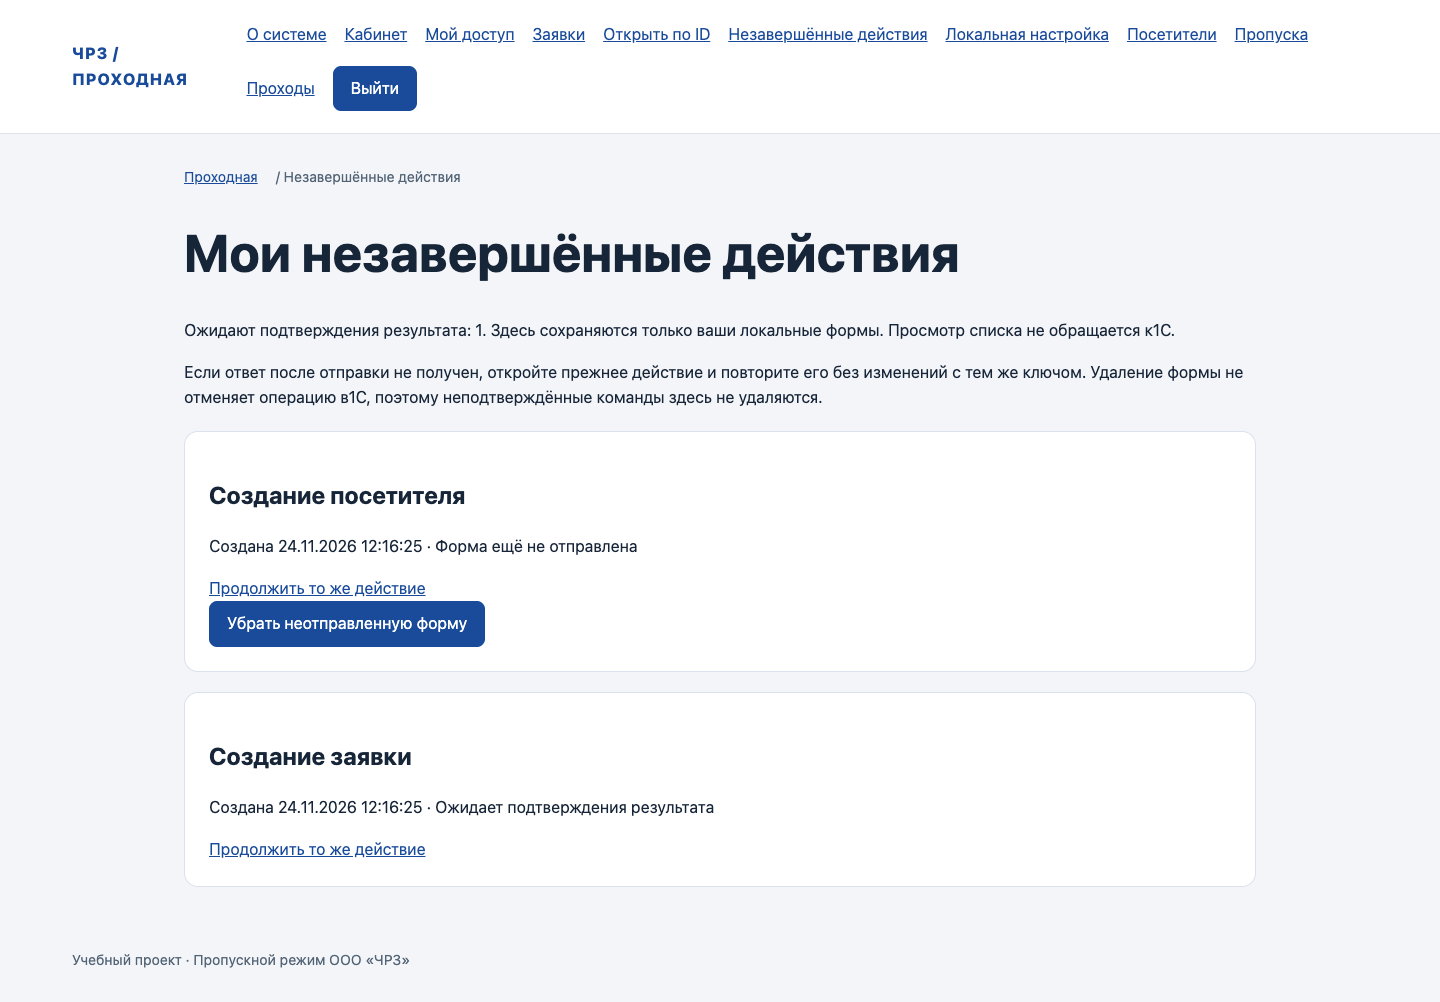
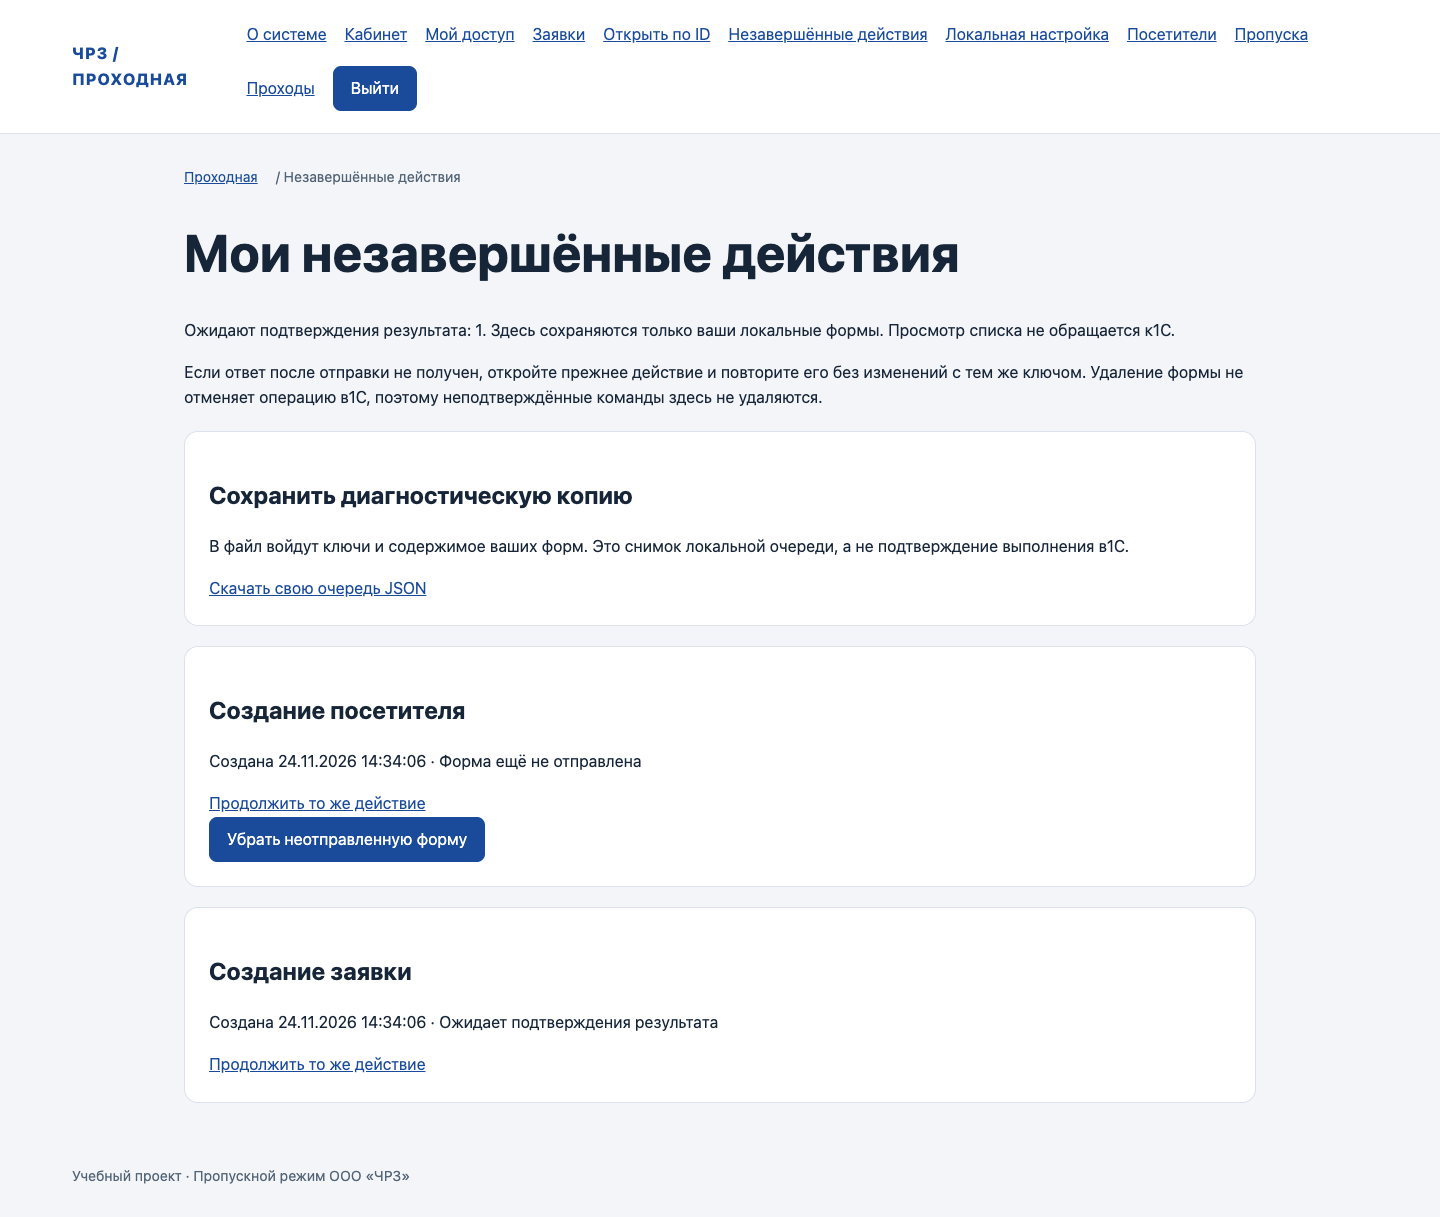
Проверить выгрузку очереди и локальные страницы без платформы

diff --git a/scripts/verify_offline_portal.py b/scripts/verify_offline_portal.py
@@ -40,7 +40,7 @@ def verify(app_python,output):
                         time.sleep(.1)
                 with sync_playwright() as p:
                     browser=p.chromium.launch(channel='chrome',headless=True)
-                    context=browser.new_context(viewport={'width':1440,'height':1000},locale='ru-RU',timezone_id='Asia/Tbilisi')
+                    context=browser.new_context(viewport={'width':1440,'height':1000},locale='ru-RU',timezone_id='Asia/Tbilisi',accept_downloads=True)
                     page=context.new_page();errors=[];page.on('pageerror',lambda error:errors.append(str(error)))
                     def visit(path):
                         response=page.goto(url+path);assert response.status==200,(path,response.status)
@@ -58,6 +58,13 @@ def verify(app_python,output):
                     text=page.locator('main').inner_text();assert 'RAW_PAYLOAD_NOT_PUBLIC' not in text and 'FOREIGN_NOT_PUBLIC' not in text
                     assert 'Ожидают подтверждения результата: 1' in text
                     checks.append('own_pending_metadata_without_payload');shot('pending-desktop.png')
+                    with page.expect_download() as result:page.get_by_role('link',name='Скачать свою очередь JSON',exact=True).click()
+                    downloaded=target/'pending-browser.json';result.value.save_as(downloaded)
+                    exported=json.loads(downloaded.read_text())
+                    assert exported['actor']=='offline.operator' and len(exported['commands'])==2
+                    assert 'FOREIGN_NOT_PUBLIC' not in downloaded.read_text()
+                    assert next(row for row in exported['commands'] if row['state']=='unknown')['payload']['secret']=='RAW_PAYLOAD_NOT_PUBLIC'
+                    checks.append('download_own_pending_snapshot_without_rpc')
                     page.get_by_role('button',name='Убрать неотправленную форму',exact=True).click();page.wait_for_url('**/pending/')
                     assert page.get_by_role('button',name='Убрать неотправленную форму',exact=True).count()==0
                     assert 'Ожидает подтверждения результата' in page.locator('main').inner_text()

diff --git a/docs/NO_GUI_MODE.md b/docs/NO_GUI_MODE.md
@@ -9,3 +9,9 @@
 Для Python-проверок флаги не нужны. Отдельный scripts/verify_offline_portal.py проверяет только локальные технические страницы в изолированной копии с фиктивными аккаунтами и отключённым бинарником; запускается QA-интерпретатором сPlaywright. Он не проводит нативную бизнес-приёмку.
 
 Полный способ обмена без всплывающих окон, обновление обычнойdevelopment-базы послеpresenceAPI и новая нативная приёмка остаются открытыми. Пользовательские базы, ключи и существующие пароли не сбрасывать.
+
+24 ноября: очередь команд использует короткие SQLite IMMEDIATE-транзакции и блокировку владельца; сетевой callback выполняется после commit. До20 форм, без автоматического вытеснения. Flock-слот одного оператора (macOS/Linux) предотвращает два одновременных запроса; пустой файл блокировки остаётся намеренно, чтобы не возникала гонка inode. Отказ текущего повтора не стирает неизвестный исход прошлой попытки.
+
+На странице незавершённых действий можно скачать личную JSON-копию очереди с ключами/содержимым. Хеш описывает диагностическое представление, не исходные байты сети и не исполнение в1С. Импорт и автоматическая повторная отправка выгрузки не предусмотрены.
+
+`scripts/verify_command_concurrency.py` воспроизводит четыре сценария двумя соединениями отдельной файловойSQLite; RPC не выполняется. Python-клиент и локальный шлюз отклоняют неоднозначный JSON, слишком глубокие структуры и NaN/Infinity и переполнение чисел; клиент принимает только окончательный HTTP200 и сверяет идентификатор подтверждения отзыва. Эти проверки протокола не подтверждают изменения нативной платформы.
